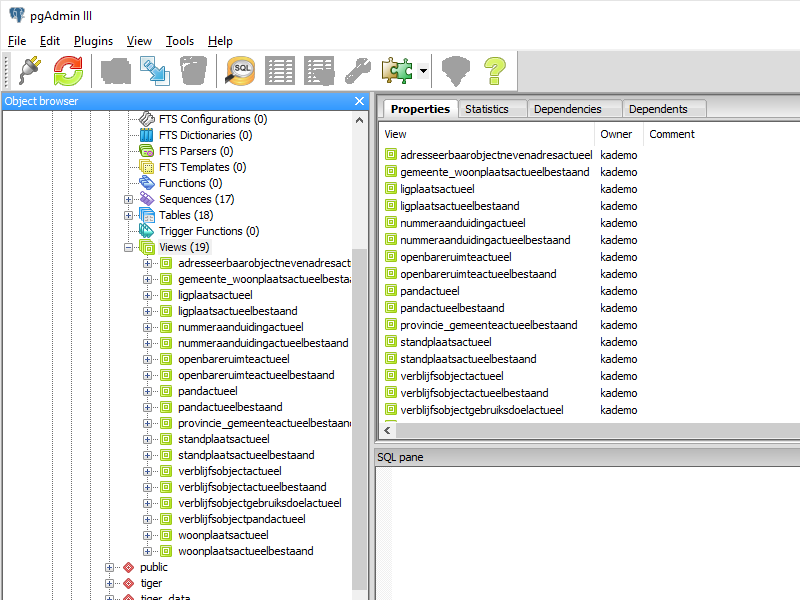
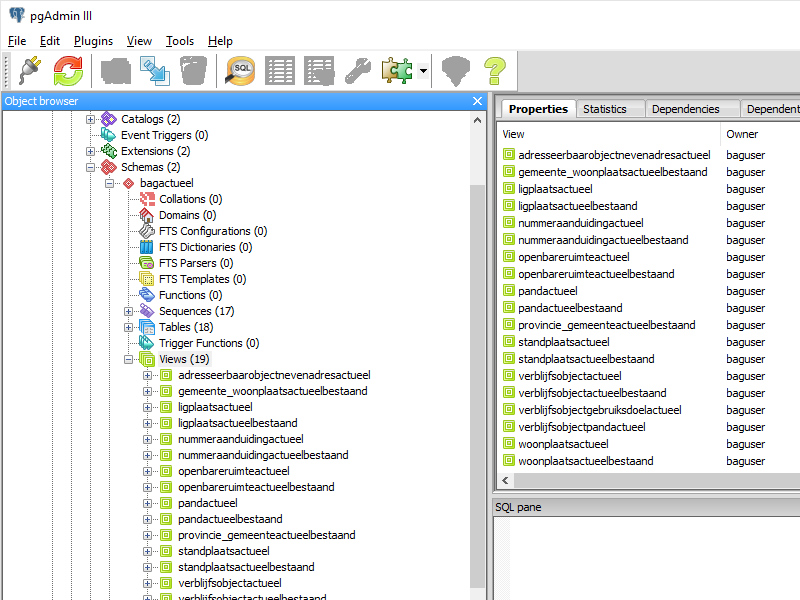
Instructie BAG restore via Windows GUI

Changed region(s): [[0.0938, 0.15, 1.0, 1.0], [0.9375, 0.15, 1.0, 0.21]]

diff --git a/doc/source/instructie-win-gui.rst b/doc/source/instructie-win-gui.rst
@@ -1,17 +1,8 @@
-.. _tooling:
+.. _instructie:
 
-********
-Tooling
-********
-
-Om gebruik te maken van NLExtract data is ondersteunende software nodig, de tools om met de data te kunnen werken.
-Hierbij is het uiteraard afhankelijk wat je wilt bereiken. In het algemeen kun je stellen dat de meeste gebruikers
-gewoon de data willen gebruiken. Dan volstaat een database dump en uiteraard de database software.
-
-
-
-Instructie (Windows)
-====================
+**************************
+Instructie (Windows - GUI)
+**************************
 
 Deze beschrijving is een voorbeeldinstructie om de benodigde software te installeren en daarbij tevens een database dump terug te zetten. 
 We beschrijven de volgende stappen:
@@ -20,10 +11,11 @@ We beschrijven de volgende stappen:
 * :ref:`PostgreSQL Installeren <postgresql-install>`
 * :ref:`PostGIS Installeren <postgis-install>`
 * :ref:`PgAdmin III - BAG login toevoegen <bag-create-login>`
-* :ref:`PgAdmin III - BAG eigenaar instellen <bag-owner>`
-* :ref:`Instellen Path voor PostgreSQL tools <set-bin-path>`
-* :ref:`BAG dump terugzetten <bag-dump-restore>`
+* :ref:`PgAdmin III - BAG database aanmaken <bag-create-database>`
+* :ref:`PgAdmin III - BAG dump terugzetten <bag-dump-restore>`
 
+|
+|
 
 .. _dump-downloaden:
 
@@ -47,6 +39,9 @@ Afhankelijk van de netwerkverbinding kan dit even duren, het bestand is groter d
     :alt: dump gedownload
 
 Eventueel bag-amstelveen.backup downloaden om te testen met een kleiner bestand. 
+
+|
+|
 
 .. _postgresql-install:
 
@@ -91,7 +86,7 @@ Behoud het standaard poortnummer.
 .. image:: _static/images/nlextractimg(10).png
     :alt: default locale
 
-Alles is gereed om de installatie te beginnnen.
+Alles is gereed om de installatie te beginnen.
     
 .. image:: _static/images/nlextractimg(11).png
     :alt: start install
@@ -106,10 +101,13 @@ Nu is PostgreSQL geinstalleerd. Het laatste scherm biedt de mogelijkheid om uitb
 .. image:: _static/images/nlextractimg(13).png
     :alt: extensions
 
+|
+|
+
 .. _postgis-install:
 
 PostGIS Installeren
-~~~~~~~~~~~~~~~~~~~~~~
+~~~~~~~~~~~~~~~~~~~
 
 PostGIS is de uitbreiding op PostgreSQL dat het mogelijk maakt om data met geometrische / geografische gegevens op te slaan en te verwerken.
 
@@ -138,7 +136,7 @@ Nu wordt gevraagd akkoord te gaan met de licentievoorwaarden.
     
 Voor het gemak vinken we de keuze 'create spatial database' aan. Het is in deze instructie de bedoeling om direct een database aan te maken die kan dienen om de dump (back-up) terug te zetten. Het kan uiteraard ook op een later moment.
 
-.. image:: _static/images/nlextractimg(18).png
+.. image:: _static/images/nlextractimg(52).png
     :alt: alternate text
     
 Hier wordt gevraagd waar de PostGIS uitbreiding geplaatst kan worden. We laten dit staan, mits dit klopt met de locatie van de PostgreSQL installatie.
@@ -150,13 +148,8 @@ Op het volgende scherm wordt de gebruikersnaam en het wachtwoord gevraagd. Hierm
 
 .. image:: _static/images/nlextractimg(20).png
     :alt: alternate text
-    
-In deze instructie zetten we de BAG dump terug, dus we noemen de database 'bag'.
 
-.. image:: _static/images/nlextractimg(21).png
-    :alt: alternate text
-
-Nu wordt PostGIS geinstalleerd en wordt de database (met de naam 'bag') aangemaakt. Als het goed is, verloopt dit redelijk vlot.
+Nu wordt PostGIS geinstalleerd. Dit verloopt redelijk vlot.
     
 .. image:: _static/images/nlextractimg(22).png
     :alt: alternate text
@@ -186,7 +179,9 @@ De Stack builder geeft aan dat alle aangevinkte uitbreidingen zijn geinstalleerd
 .. image:: _static/images/nlextractimg(27).png
     :alt: alternate text
     
-    
+|
+|
+
 .. _bag-create-login:
 
 PgAdmin III - BAG login toevoegen
@@ -212,9 +207,9 @@ Maak een nieuwe 'login' aan. Het is de bedoeling om een login te hebben die past
 .. image:: _static/images/nlextractimg(31).png
     :alt: alternate text
 
-De nieuwe login krijgt de naam 'kademo'.
+De nieuwe login krijgt de naam 'basuser'.
 
-.. image:: _static/images/nlextractimg(32).png
+.. image:: _static/images/nlextractimg(53).png
     :alt: alternate text
     
 Kies een wachtoord voor deze login, vul deze twee keer in en onthoud deze. Sluit af met 'Ok'.
@@ -224,100 +219,87 @@ Kies een wachtoord voor deze login, vul deze twee keer in en onthoud deze. Sluit
 
 De PostgreSQL database server heeft nu twee logins.
     
-.. image:: _static/images/nlextractimg(35).png
+.. image:: _static/images/nlextractimg(55).png
     :alt: alternate text
 
-.. _bag-owner:
 
-PgAdmin III - BAG eigenaar instellen
-~~~~~~~~~~~~~~~~~~~~~~~~~~~~~~~~~~~~
+|
+|
 
-Zoek binnen pgAdmin de 'bag' database, open het contextmenu en kies 'Properties'. 
+.. _bag-create-database:
 
-.. image:: _static/images/nlextractimg(36).png
-    :alt: alternate text
-    
-De eigenschappen van de database worden zichtbaar. Kies bij 'Owner' de eerder aangemaakte login met de naam 'kademo'. 
-    
-.. image:: _static/images/nlextractimg(37).png
-    :alt: alternate text
-    
-Login 'kademo' is nu eigenaar van de database 'bag'.
-    
-.. image:: _static/images/nlextractimg(38).png
+PgAdmin III - BAG database aanmaken
+~~~~~~~~~~~~~~~~~~~~~~~~~~~~~~~~~~~
+
+De BAG database aanmaken omvat twee stappen, namelijk een PostgreSQL database aanmaken en een PostGIS uitbreiding toevoegen aan de database.
+Open voor het aanmaken van een nieuwe database het contextmenu (rechter muisknop) op 'Databases' en kies 'New Database'.
+
+.. image:: _static/images/nlextractimg(56).png
     :alt: alternate text
 
-.. _set-bin-path:
+We noemen de database 'bagdb'. Kies de zojuist gemaakte inlog 'baguser' als eigenaar van de database.
 
-Instellen Path voor PostgreSQL tools
-~~~~~~~~~~~~~~~~~~~~~~~~~~~~~~~~~~~~
+.. image:: _static/images/nlextractimg(57).png
+    :alt: alternate text
 
-Indien gebruik gemaakt wordt van de console (Opdrachtprompt) om PostgreSQL utilities te gebruiken (in de volgende stap) dat is
-het handig om de locatie van deze tools opgenomen te hebben in de PATH omgevingsvariable. Eigenlijk zou het installaieprogramma
-van PostgreSQL dit moeten/kunnen verzorgen, maar dat is helaas niet gebeurd. Na aanpassen van de PATH variabele zijn de utilities aan te roepen vanuit willekeurige locatie.
+Er is nu een nieuwe database aangemaakt, echter bevat deze nog geen PostGIS mogelijkheden.
+Hiervoor gaan we een uitbreiding toevoegen aan de database.
+Kies 'New Extension' in het contextmenu  (rechter muisknop) op 'Extensions', binnen de node 'bagdb'.
 
-Navigeer via de verkenner naar de 'Bin' map van de PostgreSQL installatie in 'Program Files'.    
-    
-.. image:: _static/images/nlextractimg(39).png
-    :alt: Locate Bin path
-    
-Daarna kan de maplocatie worden geselecteerd (wordt blauw) en naar het klembord worden gekopieerd. In het voorbeeld via de contextmenu, keuze 'Kopiëren'.  
+.. image:: _static/images/nlextractimg(61).png
+    :alt: alternate text
 
-.. image:: _static/images/nlextractimg(40).png
-    :alt: Kopieer path
+Kies in het scherm de extensie 'postgis'.
 
-Open dan het 'Systeemeigenschappen' dialoog. Dat kan via het configuratiescherm -> Systeem en beveiliging -> Systeem. Een snelkopeling is <Win>+<Break>. Kies dan voor 'Geavanceerde systeeminstellingen'.
+.. image:: _static/images/nlextractimg(62).png
+    :alt: postgis extension
 
-Kies de knop 'Omgevingsvariabelen'.    
+.. image:: _static/images/nlextractimg(63).png
+    :alt: postgis extension public schema
 
-.. image:: _static/images/nlextractimg(41).png
-    :alt: Omgevingsvariabelen
+Klik op 'Ok' en de uitbreiding 'postgis' zal zichtbaar worden.
 
-Onderstaand is het scherm zoals het er uitziet bij Windows 10. Kies variabele 'PATH' en klik op 'Bewerken'. Plak (Ctrl-V) dan op een nieuwe regel de locatie van de PostgreSQL Bin map.
-
-Bij eerdere Windows versies kan de PATH variabele worden aangepast door de waarde te bewerken, een ';' scheidingsteken toe te voegen en dan de PostgreSQL Bin locatie er achteraan te plakken (of overtypen).
-
-Sluit het venster door op 'Ok' te klikken.  
-    
-.. image:: _static/images/nlextractimg(42).png
-    :alt: PATH bewerking afsluiten
-    
-Elke opdrachtprompt die vanaf nu wordt geopend, zal door de PATH variabele de locatie van de PostgreSQL utilities kunnen vinden. Een reeds openstaande opdrachtprompt kent de nieuwe PATH variabele nog niet.  
+|
+|
 
 .. _bag-dump-restore:
 
-BAG dump terugzetten
-~~~~~~~~~~~~~~~~~~~~
+PgAdmin III - BAG dump terugzetten
+~~~~~~~~~~~~~~~~~~~~~~~~~~~~~~~~~~
 
-Open een Opdrachtprompt (<Win>+X, O) en ga naar de locatie waar de gedownloade database dumps zijn neergezet. In deze instructie is dat 'C:/NLExtract', dus type commando 'cd /NLExtract'. Voer commando 'dir' uit om de controleren of de dumps er staan.
+Kies optie 'Restore' middels het contextmenu (rechter muisknop) op de zojuiste gemaakte database 'bagdb'.  
 
-.. image:: _static/images/nlextractimg(44).png
-    :alt: console openen
+.. image:: _static/images/nlextractimg(58).png
+    :alt: alternate text
 
-Nu gaan we de dump herstellen (restore) naar de database 'bag'.
+Kies als 'Filename' het eerder gedownloade bestand 'bag-laatst.backup' en kies als 'Roleuser' de eerder aangemaakte login 'basuser'. 
 
-```
-pg_restore --no-owner --no-privileges --username=kademo -d bag bag-laatst.backup
-```
+.. image:: _static/images/nlextractimg(59).png
+    :alt: alternate text
 
-.. image:: _static/images/nlextractimg(45).png
-    :alt: restore starten
-    
-Er wordt om een wachtwoord gevraagd die bij de login van 'kademo' hoort. Zie :ref:`PgAdmin III - BAG login toevoegen <bag-create-login>`
-    
-.. image:: _static/images/nlextractimg(46).png
-    :alt: wachtwoord kademo
+De restore opties:
 
-Nu is het herstelproces van de BAG database begonnen. Dit kan, afhankelijk van de capaciteit van de computer, enige tijd in beslag nemen (kwartier/half uur). Tijd voor koffie :) 
+.. image:: _static/images/nlextractimg(60).png
+    :alt: alternate text
 
-Om te bevestigen dat er echt iets gebeurt, kan via Taakbeheer (<Ctrl>+<Shift>+<Esc>) zichtbaar gemaakt worden dat PostgreSQL echt met de restore bezig is. Nog even geduld dus. 
- 
-.. image:: _static/images/nlextractimg(47).png
-    :alt: Taakbeheer
+Kies 'Restore' en het terugzetten van de dump zal beginnen.
 
-Als het proces is afgerond kan via pgAdmin de nieuwe inhoud van de BAG database worden gebruikt.
+Nu is het herstelproces van de BAG database begonnen. Dit kan, afhankelijk van de capaciteit van de computer, enige tijd in beslag nemen (kwartier/half uur).
+Aan het eind moet 'Proces returned exit code 0' zichtbaar zijn, dat aangeeft dat het terugzetten gelukt is.
+
+.. image:: _static/images/nlextractimg(65).png
+    :alt: restore process
+
+Kies eventueel een 'Refresh' om de navigatiestructuur te verversen, zodat alle herstelde data zichtbaar wordt.
+
+.. image:: _static/images/nlextractimg(66).png
+    :alt: refresh
+
+De database is klaar voor gebruik:
 
 .. image:: _static/images/nlextractimg(49).png
     :alt: pgAdmin restore complete
 
+|
+|
 

diff --git a/doc/source/services.rst b/doc/source/services.rst
@@ -32,9 +32,7 @@ Onder andere kunnen hier BAG en Top10NL PostGIS dumps worden gedownload. Deze wo
 zo snel mogelijk ververst waneer nieuwe versies van betreffende datasets uitkomen.
 In de README bestanden bij de betreffende downloads vind je meer informatie.
 
-Om gebruik te maken van de database dumps bieden we een overzicht om vlot tot een 'up and running' situatie te komen.
-
-Kijk hier voor een instructie: :ref:`Tooling <tooling>` .  
+Om gebruik te maken van de database dumps bieden we een overzicht om vlot tot een 'up and running' situatie te komen. Kijk hier voor een :ref:`instructie <instructie>`.  
 
 
 Voor gespecialiseerde downloads, bijv voor andere databases of zeg de BAG per gemeente,

diff --git a/doc/source/instructie.rst b/doc/source/instructie.rst
@@ -1,0 +1,19 @@
+.. _instructie:
+
+**********
+Instructie
+**********
+
+Om gebruik te maken van NLExtract data is ondersteunende software nodig, de tools om met de data te kunnen werken.
+Hierbij is het uiteraard afhankelijk wat je wilt bereiken. In het algemeen kun je stellen dat de meeste gebruikers
+gewoon de data willen gebruiken. Dan volstaat een database dump en uiteraard de database software.
+
+
+.. toctree::
+   :maxdepth: 1
+
+   instructie-win-gui.rst
+
+  
+
+

diff --git a/doc/source/index.rst b/doc/source/index.rst
@@ -26,7 +26,7 @@ Inhoud:
    bgtextract.rst
    brkextract.rst
    stetl-framework.rst
-   tooling.rst
+   instructie.rst
    links.rst
    contact.rst
 
